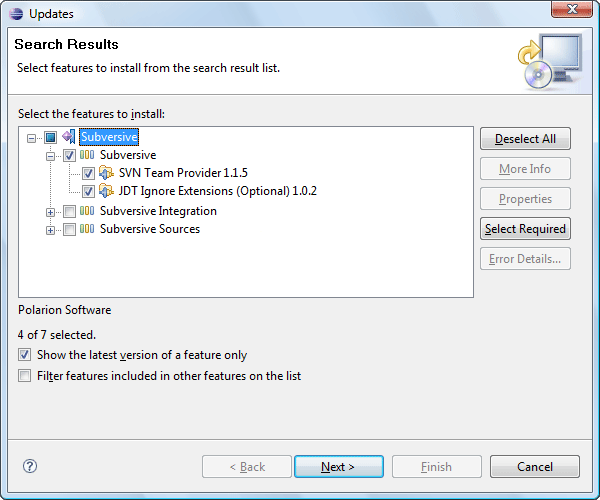
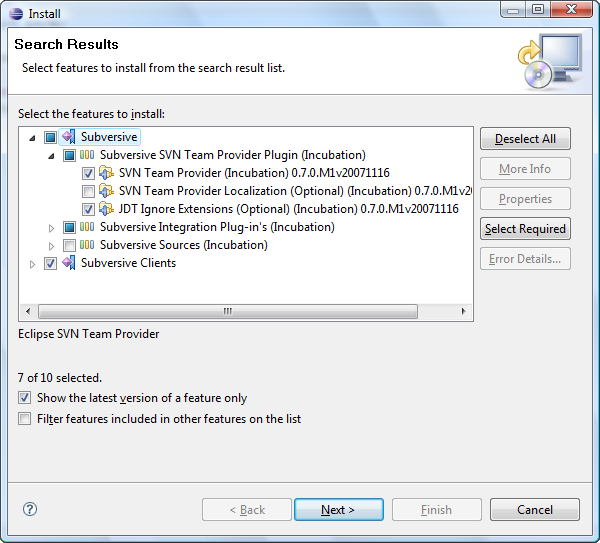
Check for licensing policies

diff --git a/org.eclipse.team.svn.help/gettingStarted/aboutSubversive/install.html b/org.eclipse.team.svn.help/gettingStarted/aboutSubversive/install.html
@@ -45,6 +45,22 @@
 			</ul>
 			<br/>Click on the <i>'OK'</i> button to store update site information.
 			<br/><br/><img border="0" src="../../images/new_update_site.png" alt="New update site"/><br/><br/>
+			Also you should install some Subversive compatible SVN Client. You can do the following in such a simple way: <br/><br/>
+			On the <i>'New Update Site'</i> dialog enter the name of clients' update site and the URL. Use following values:
+			<ul>
+				<li>
+					<b>Name:</b> Subversive Supported Clients
+				</li>
+				<li>
+					<b>URL:</b> <a href="http://www.polarion.org/projects/subversive/download/eclipse/update-site/">http://www.polarion.org/projects/subversive/download/eclipse/update-site/</a>
+				</li>
+				<li>
+					<i>Please note that the use of the software you are about to access may be subject to third party terms and conditions and you are responsible for abiding by such terms and conditions.</i>
+				</li>
+
+			</ul>
+			<br/>Click on the <i>'OK'</i> button to store update site information.
+			<br/><br/><img border="0" src="../../images/update_site_clients.png" alt="New update site"/><br/><br/>		
 		</li>
 		<li>
 			To start features search in the list of the update sites the user should select <i>'Subversive'</i> and click on the <i>'Finish'</i> button.
@@ -92,7 +108,9 @@
 			<br/><br/><img border="0" src="../../images/restart_dialog.png" alt="Restart dialog"/><br/><br/>
 		</li>
 		<li>
-			After Eclipse restart you should install some Subversive compatible SVN Client. Then you are able to start using Subversive. You can find Subversive perspective and views in correspondent dialogs, activated by menu items <i>'Window > Open Perspective > Other...'</i> and <i>'Window > Show View > Other...'</i>.
+			After Eclipse restart you are able to start using Subversive.<br/><br/>
+		</li>
+		<li> You can find Subversive perspective and views in correspondent dialogs, activated by menu items <i>'Window > Open Perspective > Other...'</i> and <i>'Window > Show View > Other...'</i>.
 			<br/><br/>
 			<table border="0" cellpadding="5" cellspacing="0">
 				<tr>
